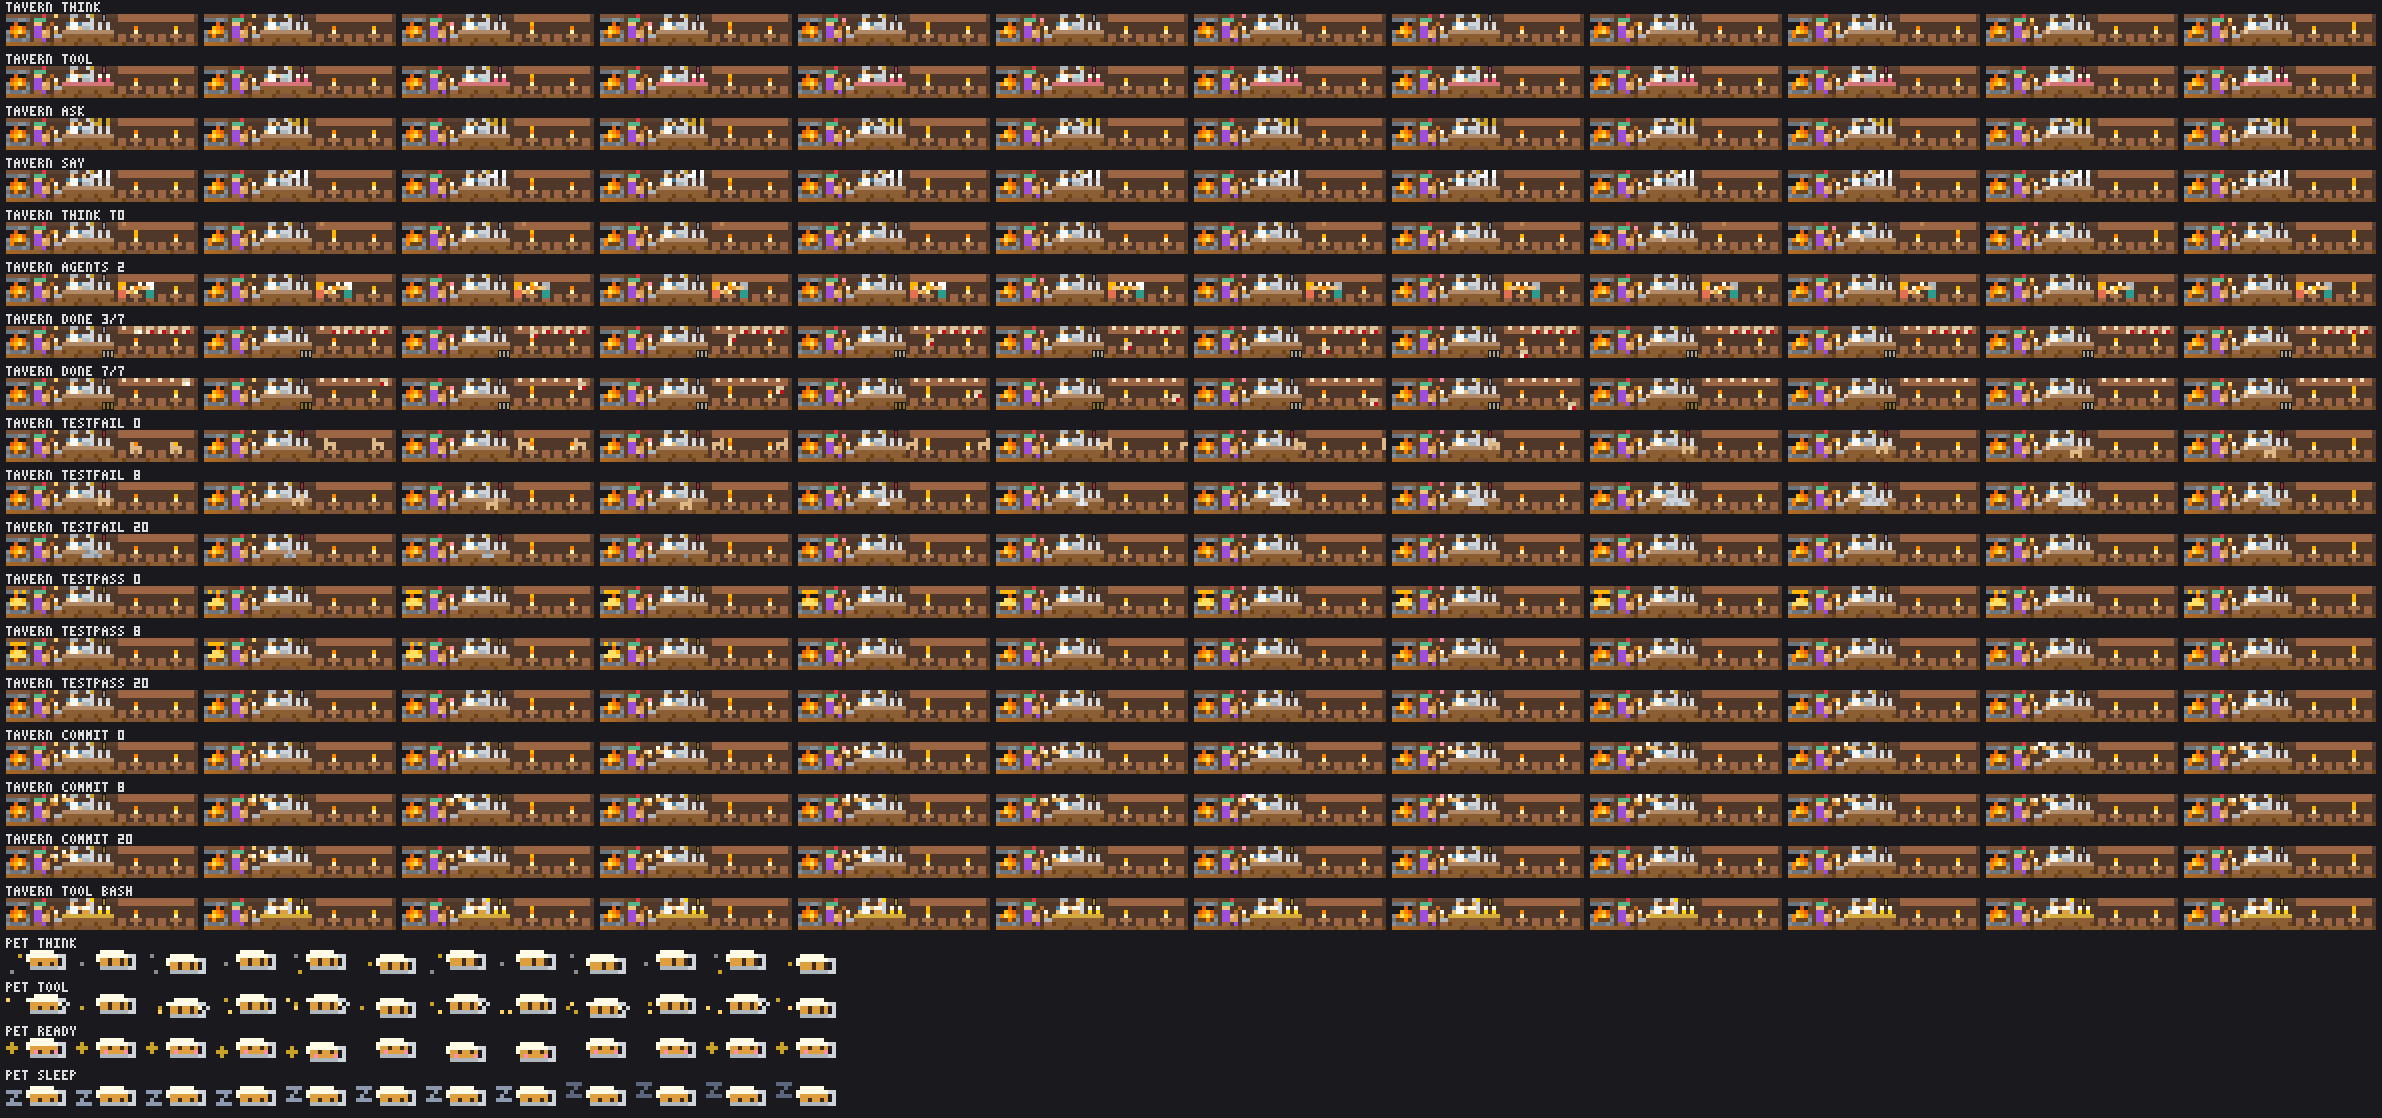
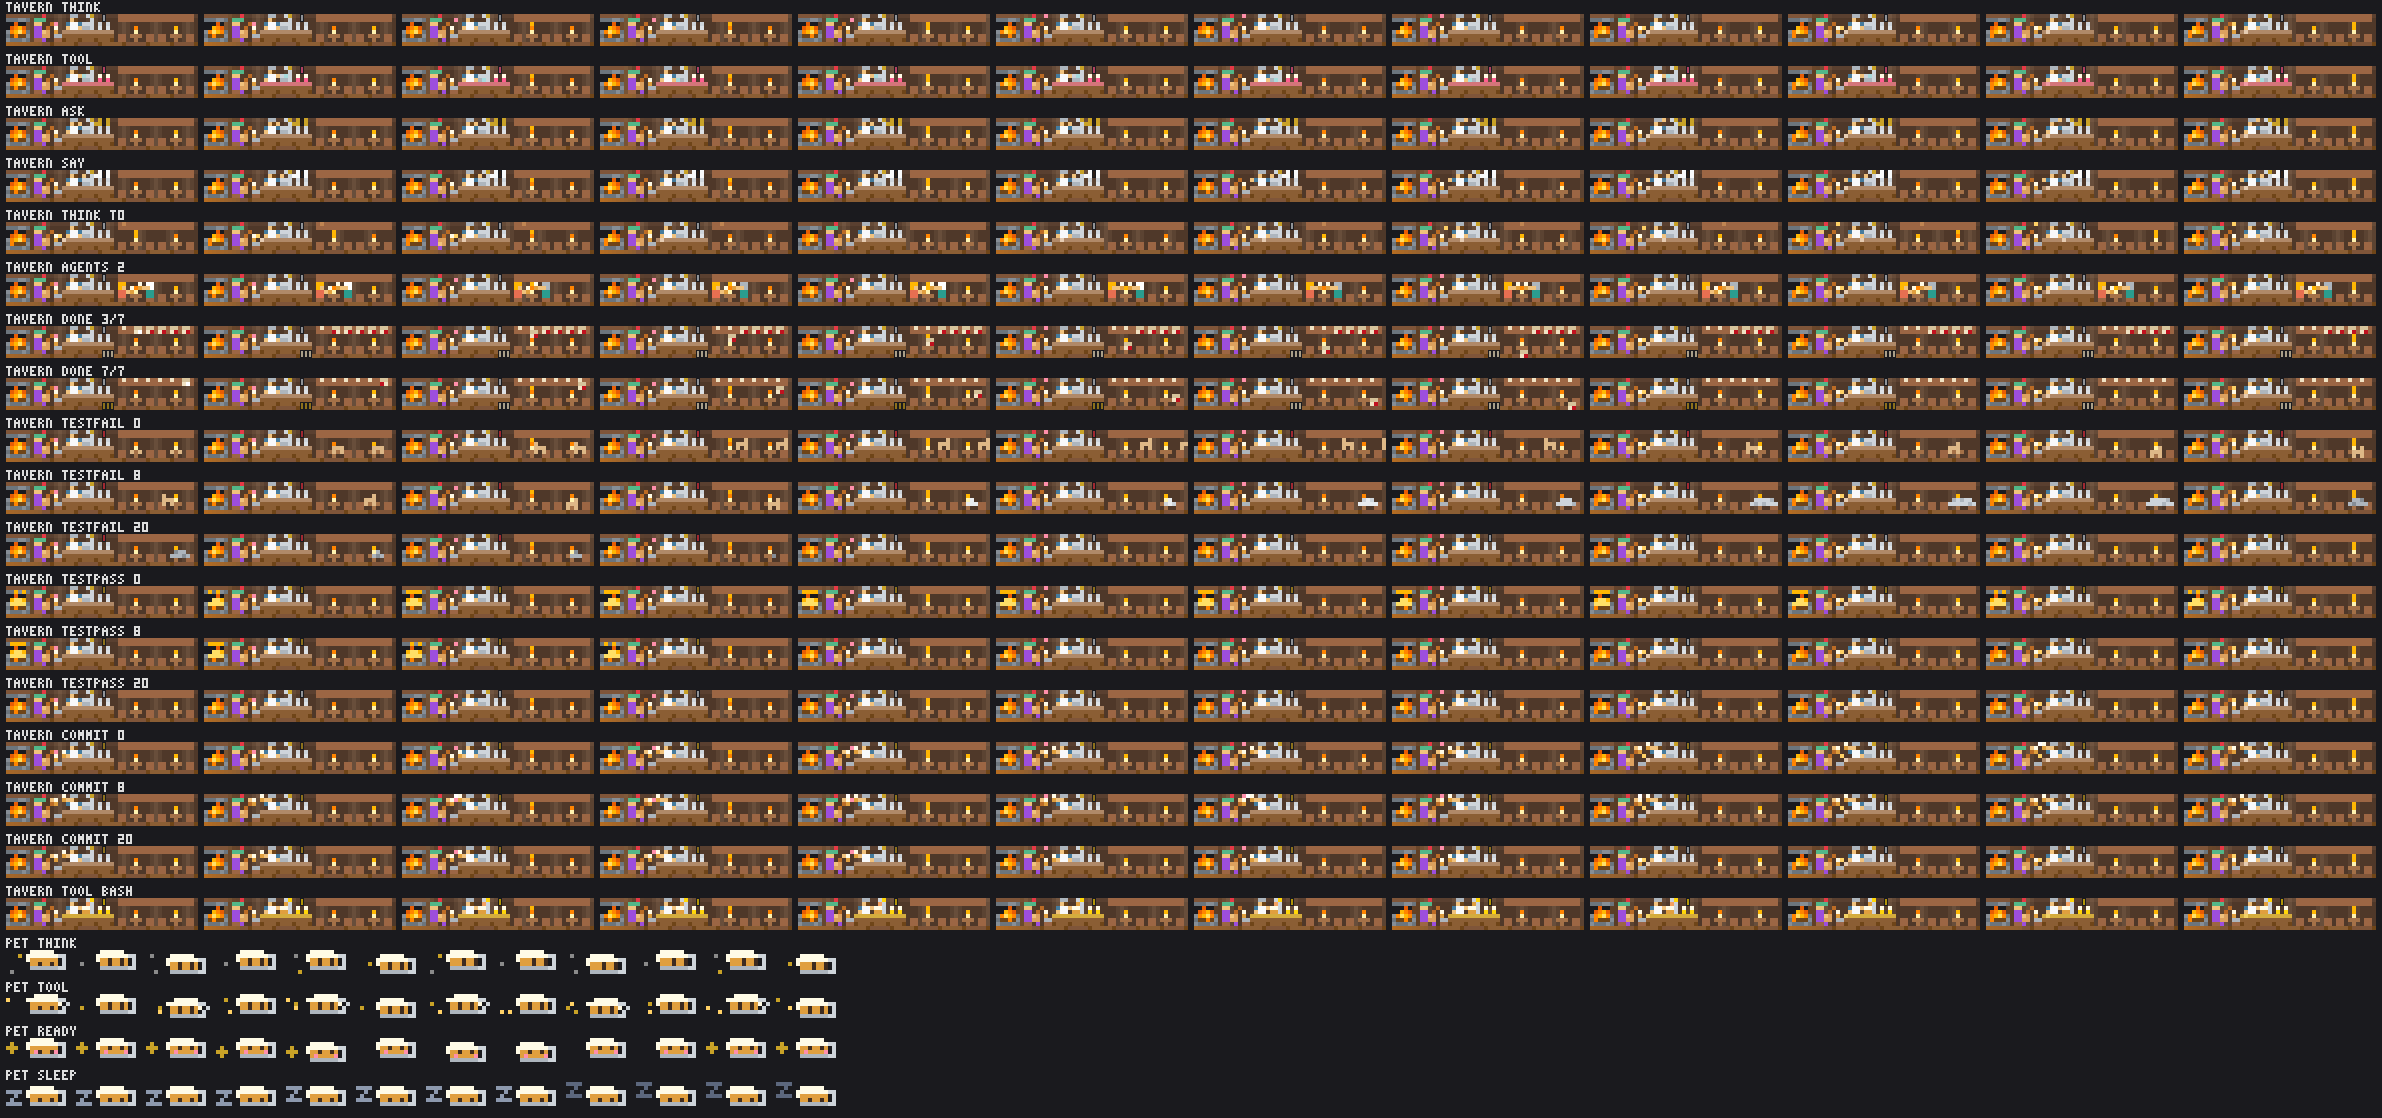
showtime: tavern review fixes — lamplight bands drift along the wall a column every other frame, eight apart, so every wall column brightens within 16 frames at any width; waiting, a slate zZ bubble grows over the bar (3 frames of actAge), the barkeep folds his arms, the bard dozes with his head sun

Changed region(s): [[0.6835, 0.4258, 0.7456, 0.4562], [0.2175, 0.3953, 0.2485, 0.4562], [0.7767, 0.4258, 0.8077, 0.4562]]

diff --git a/showtime/hooks/themes/tavern.ts b/showtime/hooks/themes/tavern.ts
@@ -1,14 +1,14 @@
 // Theme: tavern. Its scene, its words and its pet.
 //
-// The scene: an adventurers' tavern (#c9a227) against a plank wall, in fixed spots from the left: a hearth whose fire
-// crackles on two frames, a bard who plays while thinking (notes rising on 12), the barkeep at his counter, two tables
-// under the quest board. A scroll per task on the board (fixed pitch, floor-scaled), the newest done one torn off
-// and falling six frames; the tally chalked on the counter. A patron per agent (four seats) drinks on eight frames,
-// the newest raising a mug in place. tool: he polishes a mug (4 frames) or pours at the tap on bash, the pints fill
-// in the tool's colour and its light warms the counter (on actAge); ask/say: a bubble over the bar; wait: a doze.
-// testFail: a brawl, a chair hurled from each table crashing in dust; testPass: the fire flares; commit: a toast.
-// Motion rules: the wall fills every row but the firebox, whose flame tips are the run that moves; cues and props
-// keep their own columns, clear of the board; patrons' mugs stay under it.
+// The scene: an adventurers' tavern (#c9a227) against a lamplit plank wall, in fixed spots from the left: a hearth
+// whose fire crackles on two frames, a bard who plays while thinking (notes rising on 12), the barkeep at his counter,
+// two tables under the quest board. A scroll per task on the board (fixed pitch, floor-scaled), the newest done one
+// torn off and falling six frames; the tally chalked on the counter. A patron per agent (four seats) drinks on eight
+// frames, the newest raising a mug in place. tool: he polishes a mug (4 frames) or pours at the tap on bash, the pints
+// fill in the tool's colour and its light warms the counter (on actAge); ask/say/wait: a bubble over the bar, his
+// arms folded waiting. testFail: a brawl, chairs hurled right from each table, crashing in dust; testPass: the fire
+// flares; commit: a toast. Motion rules: the wall fills every row but the firebox, whose flame tips are the run that
+// moves; cues and props keep their own columns, clear of the board; patrons' mugs stay under it.
 import { canvas, cells, draw, frame, mod, noise, plot, put } from '../cells'
 import type { Canvas, Grid } from '../cells'
 import { SCENE_ROWS } from '../draw'
@@ -24,20 +24,22 @@ const PINTS = [23, 25]
 const [TABLE_X, TABLE_PITCH, BOARD_X, MAX_SCROLLS, SEAT_TILES] = [31, 10, 28, 12, 6]
 /** Frames: an act's change, a greeting, the torn scroll (2 tearing, 6 falling), the 100% glow, a flare. */
 const [CHANGE_FRAMES, GREET_FRAMES, TEAR_FRAMES, ALL_FRAMES, FLARE_FRAMES] = [4, 12, 8, 16, 12]
-/** testFail: a chair's flight (12 frames, a column each), its top row by frame (under the board); the dust. */
-const CHAIR_ARC = [3, 2, 2, 2, 2, 2, 2, 2, 3, 3, 4, 4]
+/** testFail: a chair's flight (12 frames, a column each, rising out of its table over 3), its top row by frame
+ * (under the board, right of the bar); the dust. */
+const CHAIR_ARC = [3, 3, 3, 2, 2, 2, 2, 2, 3, 3, 4, 4]
 const [DUST_FROM, DUST_TO, BRAWL_TO] = [11, 24, 20]
 /** commit: every mug's lift by newsAge, rising over 10 frames and back over 10 (eased), foam on the hold; the
  * patrons' mugs a pixel at most, so they stay under the board. A greeting: a mug up, the hair flashing. */
 const TOAST = [0, 0, 0, 1, 1, 1, 1, 1, 2, 2, ...Array(8).fill(2), 2, 2, 1, 1, 1, 1, 1, 0, 0, 0]
 const GREET = [1, 1, 1, 1, 1, 1, 1, 1, 1, 1, 1, 0]
 
-const GOLD = '#c9a227'
+const [GOLD, DOZE] = ['#c9a227', '#8d99ae']
 const [STONE, MANTEL, LOG, EMBER] = [['#6c757d', '#868e96'], '#7f5539', '#6f4518', '#ff8500']
 const FIRE: Record<string, string> = { r: '#e85d04', o: '#ff8500', y: '#ffb703', w: '#ffe066' }
 /** The fire's two crackle frames, pixel rows 2-4 inside the hearth (columns 1-4). */
 const FLAMES = [['.r..', 'royr', 'oywo'], ['..r.', '.yor', 'owyo']]
-const [FLOOR, PLANK, SEAM, WALL, BEAM] = ['#8b5e34', '#7f5539', '#6f4518', '#4f3829', '#5a4030']
+const [FLOOR, PLANK, SEAM, WALL, BEAM, LAMPLIGHT] = ['#8b5e34', '#7f5539', '#6f4518', '#4f3829', '#5a4030', '#ffd8a8']
+const LIGHT_PITCH = 8
 const [TOP, SHEEN, FRONT, PANEL] = ['#b08968', '#e6ccb2', '#8b5e34', '#6f4518']
 const [SKIN, HAIR, APRON, SHIRT, BROW] = ['#f1c27d', '#adb5bd', '#f8f9fa', '#457b9d', '#6f4518']
 const [HAT, FEATHER, TUNIC, LUTE, NECK] = ['#52b788', '#e63946', '#9d4edd', '#dda15e', '#bc6c25']
@@ -84,19 +86,21 @@ function hearth(cv: Canvas, t: number, flare: number): void {
 
 /** The bard on his stool by the barrel: hat and feather, face, tunic, the lute across him (its neck up to the
  * right); strumming in think (the hand on a 4-frame cycle) with notes rising off the neck on 12, else resting,
- * his foot tapping on 12 in every act. */
-function bard(cv: Canvas, t: number, playing: boolean): void {
-  draw(cv, BARD_X, 0, ['...F..', '.HHH..', '.SS..N', '.TT.N.', '.TTLL.', '.TTLL.', '.BB...'],
-    { F: FEATHER, H: HAT, S: SKIN, T: TUNIC, L: LUTE, N: NECK, B: STOOL })
+ * his foot tapping on 12 in every act; dozing (his head sunk a pixel, the lute's neck with it) while waiting. */
+function bard(cv: Canvas, t: number, playing: boolean, doze: boolean): void {
+  const art = doze ? ['......', '...F..', '.HHH.N', '.SS.N.', '.TTLL.', '.TTLL.', '.BB...']
+    : ['...F..', '.HHH..', '.SS..N', '.TT.N.', '.TTLL.', '.TTLL.', '.BB...']
+  draw(cv, BARD_X, 0, art, { F: FEATHER, H: HAT, S: SKIN, T: TUNIC, L: LUTE, N: NECK, B: STOOL })
   plot(cv, BARD_X + 3, playing && mod(t, 4) >= 2 ? 5 : 4, SKIN)
   plot(cv, BARD_X + (mod(t, 12) < 6 ? 3 : 4), 6, TUNIC)
-  // A note every six frames beside the lute's head, rising a pixel every other frame and swaying a column.
-  if (playing) plot(cv, MUG_X - (mod(t, 6) >> 1 === 1 ? 1 : 0), 2 - (mod(t, 6) >> 1), NOTE[mod(t / 6 | 0, 2)]!)
+  // A note every 12 frames beside the lute's head, rising a pixel every third frame (3 px) and swaying a column.
+  const step = mod(t, 12) / 3 | 0
+  if (playing) plot(cv, MUG_X + 1 - mod(step, 2), 3 - step, NOTE[mod(t / 12 | 0, 2)]!)
 }
 
 /** The barkeep's hands for the act, keyed on `actAge` from rest (both hands down on the counter's edge), and the
  * cloth while he polishes: around the work mug a pixel a frame. */
-function keeper(s: Signals, t: number): { hands: Px[]; cloth?: Px; head: number } {
+function keeper(s: Signals, t: number): { hands: Px[]; cloth?: Px; head: number; fold?: boolean } {
   const a = s.actAge
   const rest: Px[] = [[KEEP_X, 3], [KEEP_X + 3, 3]]
   if (s.act === 'tool' && s.tool === 'bash') return { hands: [rest[0]!, [KEEP_X + 3, 2]], head: 0 }
@@ -109,7 +113,11 @@ function keeper(s: Signals, t: number): { hands: Px[]; cloth?: Px; head: number 
     const open = a >= 1 && mod(a, 12) < 6
     return { hands: [open ? [KEEP_X - 1, 2] : rest[0]!, [KEEP_X + 4, a < 1 ? 3 : 1]], head: 0 }
   }
-  if (s.act === 'wait') return { hands: rest, head: a >= 2 && mod(a, 16) < 10 ? 1 : 0 }
+  // Waiting he folds his arms over the apron (a frame per hand) and dozes, his head sinking on a 16-frame breath.
+  if (s.act === 'wait') {
+    return { hands: [a < 2 ? rest[0]! : [KEEP_X + 1, 3], a < 1 ? rest[1]! : [KEEP_X + 2, 3]], fold: a >= 2,
+      head: a >= 2 && mod(a, 16) < 10 ? 1 : 0 }
+  }
   return { hands: rest, head: 0 }
 }
 
@@ -126,7 +134,7 @@ function bar(cv: Canvas, t: number, s: Signals, glow: number, fill: number, lift
   const y0 = k.head
   draw(cv, KEEP_X, y0, ['.HH.', '.SB.'], { H: HAIR, S: SKIN, B: BROW })
   for (const y of [2, 3]) for (const c of [1, 2]) if (y >= y0 + 2) plot(cv, KEEP_X + c, y, APRON)
-  for (const c of [0, 3]) plot(cv, KEEP_X + c, 2, SHIRT)
+  for (const c of [0, 3]) for (const y of k.fold ? [2, 3] : [2]) plot(cv, KEEP_X + c, y, SHIRT)
   for (const [x, y] of k.hands) plot(cv, x, y, SKIN)
   // The work mug on the counter, under the tap: poured on bash (the stream flickering), else pewter.
   const pour = s.act === 'tool' && s.tool === 'bash'
@@ -181,19 +189,20 @@ function board(cv: Canvas, t: number, s: Signals): Px | undefined {
   return tear >= 2 && lit > 0 && lit <= tiles ? [BOARD_X + 1 + 3 * (lit - 1), tear - 1] : undefined
 }
 
-/** A table: top, pedestal, a candle flickering (now and then a pixel taller). */
-function table(cv: Canvas, t: number, tx: number, k: number): void {
+/** A table: top, pedestal, a candle flickering (now and then a pixel taller), burning low and red while `low`. */
+function table(cv: Canvas, t: number, tx: number, k: number, low: boolean): void {
   for (let c = 0; c < 3; c++) plot(cv, tx + c, 5, TABLE)
   plot(cv, tx + 1, 6, TABLE)
   plot(cv, tx + 1, 4, CANDLE)
-  plot(cv, tx + 1, 3, FLAME[noise(k * 5 + (t >> 1)) < 0.5 ? 0 : 1]!)
-  if (mod(t + 5 * k, 14) < 3) plot(cv, tx + 1, 2, FLAME[0]!)
+  const flame = low ? ['#e85d04', '#9d4b1c'] : FLAME
+  plot(cv, tx + 1, 3, flame[noise(k * 5 + (t >> 1)) < 0.5 ? 0 : 1]!)
+  if (mod(t + 5 * k, 14) < 3 && !low) plot(cv, tx + 1, 2, flame[0]!)
 }
 
 /** A patron at seat `side` (0 left of the table, facing right; 1 right of it, mirrored), the mug lifted `lift`
  * above the table, the hair flashing white in a greeting. An empty seat is a stool. */
 function patron(cv: Canvas, tx: number, side: number, i: number, sat: boolean,
-  o: { lift: number; flash: boolean }): void {
+  o: { lift: number; flash: boolean; froth: boolean }): void {
   const at = (c: number, y: number, ink: string) => plot(cv, side ? tx + 5 - c : tx - 3 + c, y, ink)
   for (const y of sat ? [6] : [5, 6]) [at(0, y, STOOL), at(1, y, STOOL)]
   if (!sat) return
@@ -204,12 +213,13 @@ function patron(cv: Canvas, tx: number, side: number, i: number, sat: boolean,
   for (const y of [4, 5]) [at(0, y, body!), at(1, y, body!)]
   at(2, 4 - o.lift, SKIN)
   mug(cv, side ? tx + 2 : tx, 4, o.lift)
+  if (o.froth) plot(cv, side ? tx + 2 : tx, 3 - o.lift, '#ffffff')
 }
 
-/** A hurled chair, three by three, tumbling (flipped every three frames). */
+/** A hurled chair, three by three, tumbling (flipped every three frames), its first frames only its lower rows. */
 function chair(cv: Canvas, x: number, y: number, a: number): void {
   const art = mod(a, 6) < 3 ? ['c..', 'ccc', 'c.c'] : ['..c', 'ccc', 'c.c']
-  art.forEach((row, j) => [...row].forEach((k, c) => k === 'c' && plot(cv, x + c, y + j, CHAIR)))
+  art.forEach((row, j) => [...row].forEach((k, c) => k === 'c' && j >= 2 - a && plot(cv, x + c, y + j, CHAIR)))
 }
 
 /** Dust where a chair crashed, `a` frames on: a solid puff spreading to three pixels each way and back, its middle
@@ -230,7 +240,7 @@ function sign(s: Signals, t: number, k: { fail: boolean; pass: boolean; toast: b
   if (s.act === 'tool') return { text: TOOL_SIGN[s.tool ?? 'other'], c: TOOL_INK[s.tool ?? 'other'] }
   if (s.act === 'ask') return { text: '?', c: GOLD }
   if (s.act === 'say') return { text: frame(['♪', '♫'], t >> 2), c: NOTE[1]! }
-  if (s.act === 'wait') return { text: frame(['z', 'Z'], t >> 2), c: HAIR }
+  if (s.act === 'wait') return { text: frame(['z', 'Z'], t >> 2), c: DOZE }
   return { text: frame(['·', ':'], t >> 2), c: RIM }
 }
 
@@ -241,20 +251,24 @@ export function tavernScene(t: number, w: number, s: Signals): Grid {
   const toast = s.news === 'commit' && s.newsAge < TOAST.length ? s.newsAge : -1
   const isTool = s.act === 'tool'
 
-  // Layer 1: the wall (a ceiling beam, warmed by the fire's flicker near it; the firebox and its left side dark),
+  // Layer 1: the wall (a ceiling beam, lamplight bands drifting right a column every other frame, LIGHT_PITCH
+  // apart, so every column brightens within 16 frames; warmed by the fire's flicker; the firebox dark),
   // the floor and the hearth, its fire crackling in every act and flaring on a passed test.
   const warm = mod(t, 2) ? 0.22 : 0.14
   for (let x = 0; x < w; x++) {
     for (let y = 0; y < 7; y++) {
       if ((x >= 1 && x <= 4 && y >= 1 && y <= 4) || (x === 0 && (y === 2 || y === 3))) continue
       const base = y === 0 ? BEAM : WALL
-      plot(cv, x, y, x < 11 ? mix(base, EMBER, warm * (1 - x / 11)) : base)
+      const band = Math.abs(mod(x - (t >> 1), LIGHT_PITCH) - 1)
+      const lit = band < 2 ? mix(base, LAMPLIGHT, band ? 0.07 : 0.14) : base
+      plot(cv, x, y, x < 11 ? mix(lit, EMBER, warm * (1 - x / 11)) : lit)
     }
     plot(cv, x, 7, mod(x, 6) === 5 ? SEAM : mod(x, 12) < 6 ? FLOOR : PLANK)
   }
   hearth(cv, t, pass < 0 ? 0 : pass < 2 || pass >= FLARE_FRAMES - 2 ? 1 : 2)
   // Layer 2: the bard, his barrel and mug (raised in a toast).
-  bard(cv, t, s.act === 'think')
+  const dozing = s.act === 'wait' && s.actAge >= 3
+  bard(cv, t, s.act === 'think', dozing)
   for (const y of [5, 6]) for (const c of [0, 1]) plot(cv, MUG_X + c, y, y === 5 ? HOOP : STOOL)
   const lift = toast >= 0 ? TOAST[toast]! : 0
   const hold = toast >= 10 && toast < 18 ? toast : -1
@@ -263,16 +277,17 @@ export function tavernScene(t: number, w: number, s: Signals): Grid {
   // Layer 3: the bar. The tool's own (the pints filling, the light on the counter) grow in on actAge alone.
   const glow = isTool ? 0.45 * Math.min(1, s.actAge / 8) : 0
   if (BAR_X < w) bar(cv, t, s, glow, isTool ? s.actAge : -99, toast >= 0 ? lift : -1, hold)
-  // ask and say: a speech bubble over the bar (gold asking, white saying), growing out of its tail over 3 frames.
-  const talk = s.act === 'ask' || s.act === 'say' ? Math.min(3, s.actAge) : 0
-  const bubble = s.act === 'ask' ? GOLD : APRON
+  // ask, say, wait: a bubble over the bar (gold asking, white saying, slate dozing), grown over 3 frames of actAge.
+  const talk = s.act === 'ask' || s.act === 'say' || s.act === 'wait' ? Math.min(3, s.actAge) : 0
+  const bubble = s.act === 'ask' ? GOLD : s.act === 'wait' ? DOZE : APRON
   for (const [x, y, from] of [[SIGN_X - 2, 1, 1], [SIGN_X - 1, 0, 2], [SIGN_X - 1, 1, 2], [SIGN_X, 0, 3],
     [SIGN_X, 1, 3], [SIGN_X + 1, 0, 3], [SIGN_X + 1, 1, 3]] as const) if (talk >= from) plot(cv, x, y, bubble)
   // Layer 4: the quest board and the tables, a patron per agent in fixed seats (two a table).
   const falling = board(cv, t, s)
   const seats = [0, 1, 2, 3].filter(i => TABLE_X + TABLE_PITCH * (i >> 1) + (i & 1 ? 5 : 2) < w)
   const n = Math.min(s.agents, seats.length)
-  for (let k = 0; 2 * k < seats.length; k++) table(cv, t, TABLE_X + TABLE_PITCH * k, k)
+  const low = s.act === 'wait' && s.actAge >= 4
+  for (let k = 0; 2 * k < seats.length; k++) table(cv, t, TABLE_X + TABLE_PITCH * k, k, low)
   for (const i of seats) {
     const tx = TABLE_X + TABLE_PITCH * (i >> 1)
     const isNew = i === n - 1 && s.agentsAge < GREET_FRAMES
@@ -282,13 +297,14 @@ export function tavernScene(t: number, w: number, s: Signals): Grid {
     patron(cv, tx, i & 1, i, i < n, {
       lift: toast >= 0 ? Math.min(1, lift) : brawl >= 0 ? brawl : greet || drink,
       flash: isNew && s.agentsAge < 8 && mod(s.agentsAge, 4) < 2,
+      froth: hold >= 0 && mod(hold + i, 2) === 0,
     })
   }
-  // testFail: a chair hurled from each table (the first to the left, the next to the right), crashing in dust.
+  // testFail: a chair hurled to the right from each table (away from the bar), crashing in dust.
   if (fail >= 0) for (let k = 0; 2 * k < seats.length; k++) {
-    const [tx, dir] = [TABLE_X + TABLE_PITCH * k, k % 2 ? 1 : -1]
-    if (fail < CHAIR_ARC.length) chair(cv, tx + dir * fail, CHAIR_ARC[fail]!, fail)
-    else if (fail >= DUST_FROM) dust(cv, tx + 1 + dir * DUST_FROM, fail - DUST_FROM)
+    const tx = TABLE_X + TABLE_PITCH * k
+    if (fail < CHAIR_ARC.length) chair(cv, tx + fail, CHAIR_ARC[fail]!, fail)
+    else if (fail >= DUST_FROM) dust(cv, tx + 1 + DUST_FROM, fail - DUST_FROM)
   }
 
   // The torn scroll falls in front of everything.
